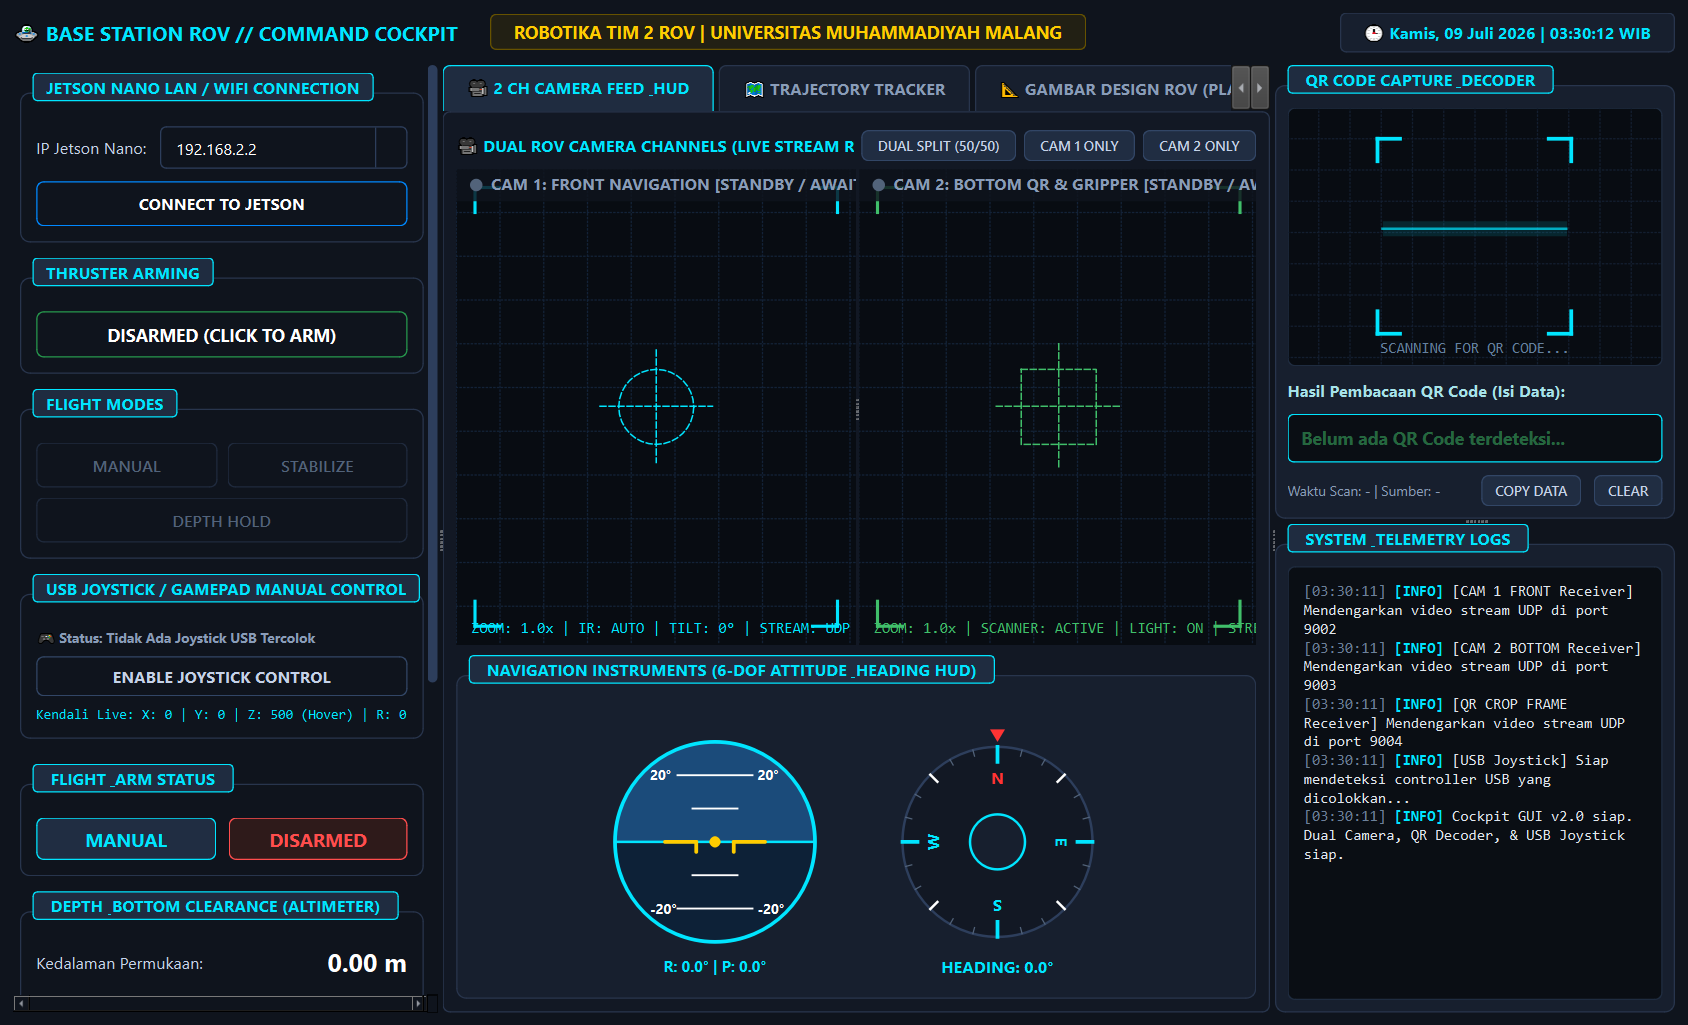
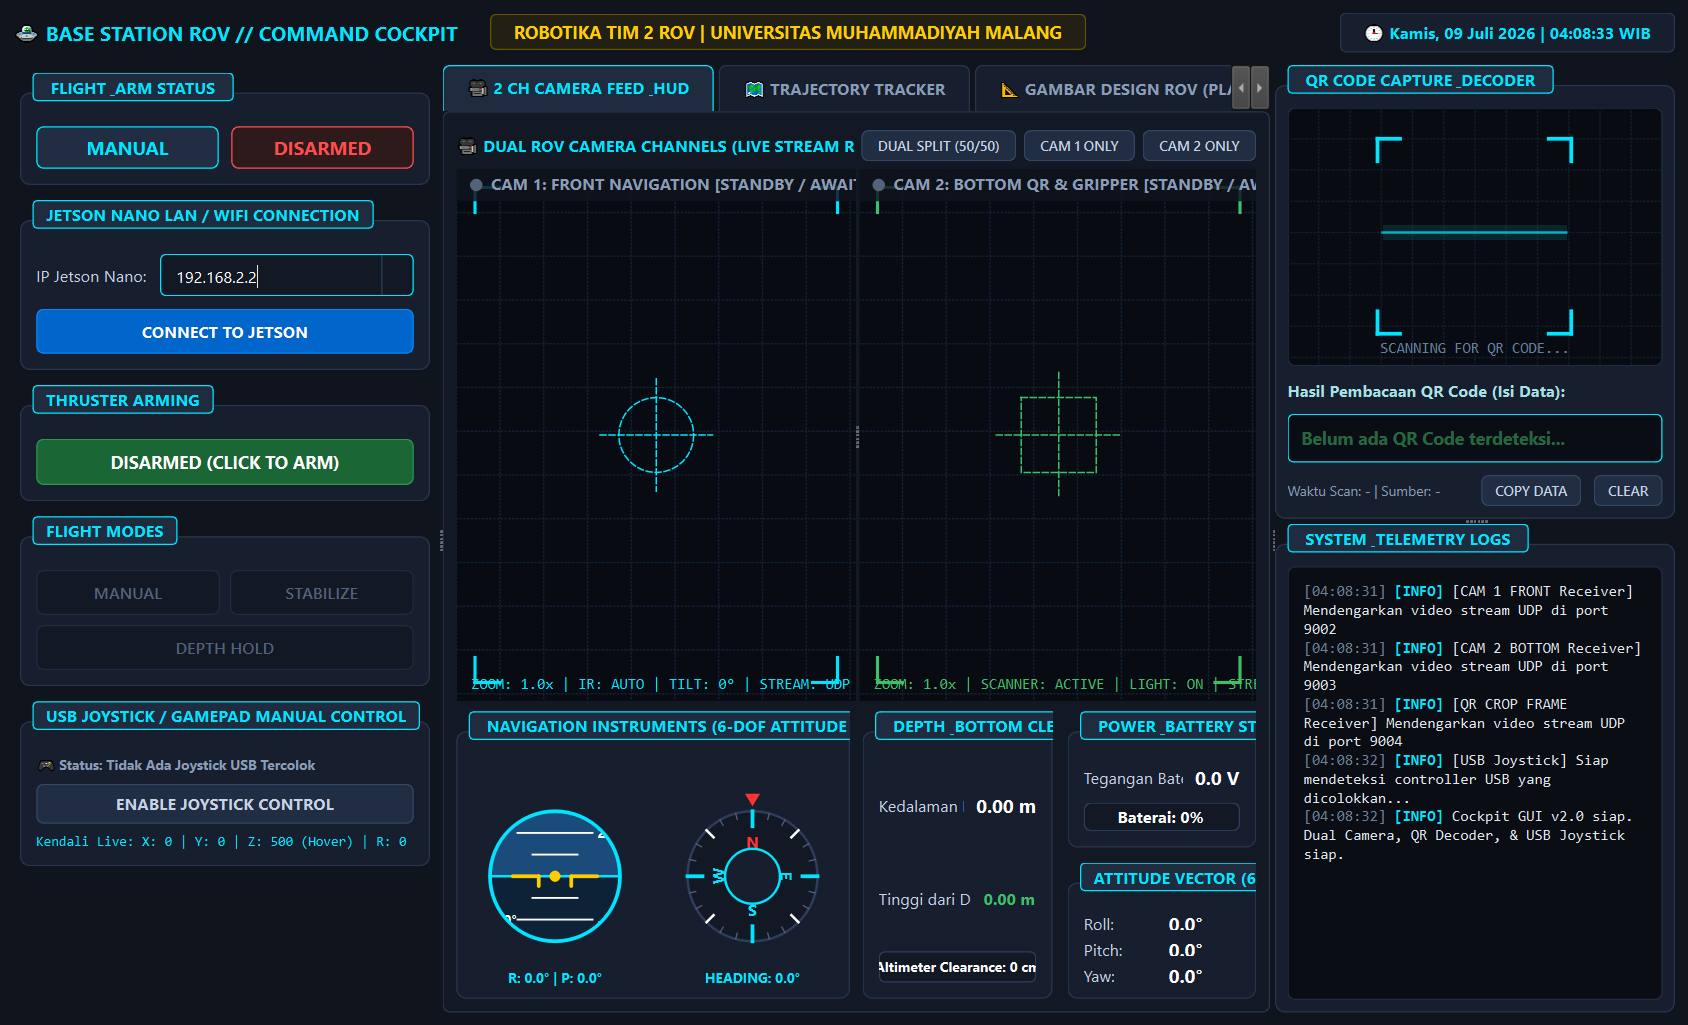
fix bottom panel

diff --git a/BaseSatation/widgets/telemetry_panel.py b/BaseSatation/widgets/telemetry_panel.py
@@ -14,30 +14,12 @@ class TelemetryPanel(QWidget):
         self._init_ui()
 
     def _init_ui(self):
-        main_layout = QVBoxLayout(self)
-        main_layout.setContentsMargins(6, 6, 6, 6)
+        main_layout = QHBoxLayout(self)
+        main_layout.setContentsMargins(0, 0, 0, 0)
         main_layout.setSpacing(12)
 
-        # 1. Groupbox Status Utama (Mode & Armed status)
-        status_group = QGroupBox("FLIGHT & ARM STATUS")
-        status_layout = QHBoxLayout(status_group)
-        status_layout.setContentsMargins(12, 18, 12, 12)
-        status_layout.setSpacing(10)
-
-        self.lbl_mode = QLabel("MANUAL")
-        self.lbl_mode.setAlignment(Qt.AlignCenter)
-        self.lbl_mode.setStyleSheet("background-color: #202d42; border: 1px solid #00e5ff; border-radius: 6px; font-size: 15px; font-weight: bold; padding: 6px; color: #00e5ff;")
-
-        self.lbl_armed = QLabel("DISARMED")
-        self.lbl_armed.setAlignment(Qt.AlignCenter)
-        self.lbl_armed.setStyleSheet("background-color: #2e1a1a; border: 1px solid #ff4d4d; border-radius: 6px; font-size: 15px; font-weight: bold; padding: 6px; color: #ff4d4d;")
-
-        status_layout.addWidget(self.lbl_mode)
-        status_layout.addWidget(self.lbl_armed)
-        main_layout.addWidget(status_group)
-
-        # 2. Groupbox Kedalaman & Ketinggian Dasar Kolam (Bottom Clearance)
-        depth_group = QGroupBox("DEPTH & BOTTOM CLEARANCE (ALTIMETER)")
+        # 1. Left column: depth_group
+        depth_group = QGroupBox("DEPTH & ALTIMETER")
         depth_layout = QVBoxLayout(depth_group)
         depth_layout.setContentsMargins(12, 18, 12, 12)
         depth_layout.setSpacing(10)
@@ -57,7 +39,7 @@ class TelemetryPanel(QWidget):
         row_alt.addStretch()
         self.lbl_alt_val = QLabel("0.00 m")
         self.lbl_alt_val.setObjectName("value_label")
-        self.lbl_alt_val.setStyleSheet("color: #40bf6a; font-weight: bold; font-size: 18px;")
+        self.lbl_alt_val.setStyleSheet("color: #40bf6a; font-weight: bold; font-size: 13px;")
         row_alt.addWidget(self.lbl_alt_val)
         depth_layout.addLayout(row_alt)
 
@@ -71,10 +53,14 @@ class TelemetryPanel(QWidget):
         """)
         depth_layout.addWidget(self.bar_alt)
 
-        main_layout.addWidget(depth_group)
+        main_layout.addWidget(depth_group, stretch=1)
 
-        # 3. Groupbox Baterai & Daya
-        power_group = QGroupBox("POWER & BATTERY STATUS")
+        # 2. Right column stacked: power_group & rpy_group
+        right_layout = QVBoxLayout()
+        right_layout.setContentsMargins(0, 0, 0, 0)
+        right_layout.setSpacing(12)
+
+        power_group = QGroupBox("BATTERY & POWER")
         power_layout = QVBoxLayout(power_group)
         power_layout.setContentsMargins(12, 18, 12, 12)
         power_layout.setSpacing(10)
@@ -93,10 +79,9 @@ class TelemetryPanel(QWidget):
         self.bar_battery.setFormat("Baterai: %p%")
         power_layout.addWidget(self.bar_battery)
 
-        main_layout.addWidget(power_group)
+        right_layout.addWidget(power_group)
 
-        # 4. Groupbox RPY Detail (Roll Pitch Yaw)
-        rpy_group = QGroupBox("ATTITUDE VECTOR (6-DOF)")
+        rpy_group = QGroupBox("ATTITUDE (6-DOF)")
         rpy_layout = QGridLayout(rpy_group)
         rpy_layout.setContentsMargins(12, 18, 12, 12)
         rpy_layout.setSpacing(10)
@@ -116,19 +101,11 @@ class TelemetryPanel(QWidget):
         self.lbl_yaw.setObjectName("value_label")
         rpy_layout.addWidget(self.lbl_yaw, 2, 1)
 
-        main_layout.addWidget(rpy_group)
+        right_layout.addWidget(rpy_group)
+        main_layout.addLayout(right_layout, stretch=1)
 
     def update_telemetry(self, state):
         """Memperbarui UI panel dengan data dari object ROVState."""
-        # Mode & Armed
-        self.lbl_mode.setText(str(state.mode).upper())
-        if state.armed:
-            self.lbl_armed.setText("ARMED")
-            self.lbl_armed.setStyleSheet("background-color: #1a2e1e; border: 1px solid #40bf6a; border-radius: 6px; font-size: 15px; font-weight: bold; padding: 6px; color: #40bf6a;")
-        else:
-            self.lbl_armed.setText("DISARMED")
-            self.lbl_armed.setStyleSheet("background-color: #2e1a1a; border: 1px solid #ff4d4d; border-radius: 6px; font-size: 15px; font-weight: bold; padding: 6px; color: #ff4d4d;")
-
         # Depth & Altitude (Dasar Kolam)
         self.lbl_depth_val.setText(f"{state.depth_m:.2f} m")
         self.lbl_alt_val.setText(f"{state.altitude_m:.2f} m")
@@ -137,13 +114,13 @@ class TelemetryPanel(QWidget):
         self.bar_alt.setValue(min(300, alt_cm))
         if 0 < state.altitude_m < 0.3:
             # Peringatan dekat dasar kolam
-            self.lbl_alt_val.setStyleSheet("color: #ff3b30; font-weight: bold; font-size: 18px;")
+            self.lbl_alt_val.setStyleSheet("color: #ff3b30; font-weight: bold; font-size: 13px;")
             self.bar_alt.setStyleSheet("""
                 QProgressBar { background-color: #2e1212; border: 1px solid #ff3b30; border-radius: 5px; text-align: center; color: #ffffff; font-size: 11px; }
                 QProgressBar::chunk { background-color: #ff3b30; border-radius: 4px; }
             """)
         else:
-            self.lbl_alt_val.setStyleSheet("color: #40bf6a; font-weight: bold; font-size: 18px;")
+            self.lbl_alt_val.setStyleSheet("color: #40bf6a; font-weight: bold; font-size: 13px;")
             self.bar_alt.setStyleSheet("""
                 QProgressBar { background-color: #121824; border: 1px solid #2d3e5c; border-radius: 5px; text-align: center; color: #ffffff; font-size: 11px; }
                 QProgressBar::chunk { background-color: #40bf6a; border-radius: 4px; }

diff --git a/BaseSatation/gui/main_window.py b/BaseSatation/gui/main_window.py
@@ -61,27 +61,19 @@ class MainWindow(QMainWindow):
         # === MAIN SPLITTER (LEFT / CENTER / RIGHT) ===
         main_splitter = QSplitter(Qt.Horizontal)
 
-        # 1. LEFT COLUMN: Kontrol & Telemetri (Termasuk Altimeter Dasar Kolam)
-        left_scroll = QScrollArea()
-        left_scroll.setWidgetResizable(True)
-        left_scroll.setFrameShape(QFrame.NoFrame)
-        left_scroll.setStyleSheet("background-color: transparent;")
-        
+        # 1. LEFT COLUMN: Kontrol & Status (Tanpa scroll area)
         left_widget = QWidget()
         left_layout = QVBoxLayout(left_widget)
         left_layout.setContentsMargins(0, 0, 0, 0)
-        left_layout.setSpacing(8)
+        left_layout.setSpacing(0)
         
         self.control_panel = ControlPanel()
-        self.telemetry_panel = TelemetryPanel()
-        
         left_layout.addWidget(self.control_panel)
-        left_layout.addWidget(self.telemetry_panel)
+        left_layout.addStretch()
         
-        left_scroll.setWidget(left_widget)
-        left_scroll.setMinimumWidth(340)
-        left_scroll.setMaximumWidth(420)
-        main_splitter.addWidget(left_scroll)
+        left_widget.setMinimumWidth(340)
+        left_widget.setMaximumWidth(420)
+        main_splitter.addWidget(left_widget)
 
         # 2. CENTER COLUMN: Multi-Tab Dashboard (Dual Camera, Trajectory Map, 3D Design)
         center_widget = QWidget()
@@ -91,7 +83,7 @@ class MainWindow(QMainWindow):
         self.center_tabs = QTabWidget()
         self.center_tabs.setTabPosition(QTabWidget.North)
 
-        # TAB 1: Dual Display Camera + HUD Instruments
+        # TAB 1: Dual Display Camera + HUD Instruments & Telemetry
         tab_cam_widget = QWidget()
         tab_cam_layout = QVBoxLayout(tab_cam_widget)
         tab_cam_layout.setContentsMargins(4, 8, 4, 4)
@@ -100,19 +92,36 @@ class MainWindow(QMainWindow):
         self.video_panel = VideoPanel()  # 2 Display Camera
         tab_cam_layout.addWidget(self.video_panel, stretch=3)
 
-        hud_group = QGroupBox("NAVIGATION INSTRUMENTS (6-DOF ATTITUDE & HEADING HUD)")
+        self.telemetry_panel = TelemetryPanel()
+
+        # HUD Group with constrained height
+        hud_group = QGroupBox("NAVIGATION HUD (6-DOF)")
         hud_layout = QHBoxLayout(hud_group)
+        hud_layout.setContentsMargins(8, 18, 8, 8)
+        hud_layout.setSpacing(20)
 
         self.attitude_indicator = AttitudeIndicator()
+        self.attitude_indicator.setMaximumSize(180, 180)
+
         self.compass_indicator = CompassIndicator()
+        self.compass_indicator.setMaximumSize(180, 180)
 
         hud_layout.addStretch()
         hud_layout.addWidget(self.attitude_indicator)
-        hud_layout.addSpacing(40)
         hud_layout.addWidget(self.compass_indicator)
         hud_layout.addStretch()
 
-        tab_cam_layout.addWidget(hud_group, stretch=2)
+        # Bottom dashboard as a widget with fixed max height
+        bottom_dashboard_widget = QWidget()
+        bottom_dashboard_widget.setMaximumHeight(230)
+        bottom_dashboard_layout = QHBoxLayout(bottom_dashboard_widget)
+        bottom_dashboard_layout.setContentsMargins(0, 0, 0, 0)
+        bottom_dashboard_layout.setSpacing(10)
+
+        bottom_dashboard_layout.addWidget(hud_group, stretch=2)
+        bottom_dashboard_layout.addWidget(self.telemetry_panel, stretch=5)
+
+        tab_cam_layout.addWidget(bottom_dashboard_widget)
         self.center_tabs.addTab(tab_cam_widget, "🎥 2 CH CAMERA FEED & HUD")
 
         # TAB 2: Trajectory Tracker
@@ -211,7 +220,7 @@ class MainWindow(QMainWindow):
     def _on_state_updated(self, state):
         # Update Telemetri & Altimeter Dasar Kolam
         self.telemetry_panel.update_telemetry(state)
-        self.control_panel.set_armed_state(state.armed)
+        self.control_panel.update_status(state.mode, state.armed)
 
         # Update HUD Instruments (Roll, Pitch, Yaw)
         self.attitude_indicator.set_attitude(state.roll, state.pitch)

diff --git a/BaseSatation/widgets/control_panel.py b/BaseSatation/widgets/control_panel.py
@@ -24,6 +24,24 @@ class ControlPanel(QWidget):
         main_layout.setContentsMargins(6, 6, 6, 6)
         main_layout.setSpacing(12)
 
+        # 0. Groupbox Status Utama (Mode & Armed status)
+        status_group = QGroupBox("FLIGHT & ARM STATUS")
+        status_layout = QHBoxLayout(status_group)
+        status_layout.setContentsMargins(12, 18, 12, 12)
+        status_layout.setSpacing(10)
+
+        self.lbl_mode = QLabel("MANUAL")
+        self.lbl_mode.setAlignment(Qt.AlignCenter)
+        self.lbl_mode.setStyleSheet("background-color: #202d42; border: 1px solid #00e5ff; border-radius: 6px; font-size: 15px; font-weight: bold; padding: 6px; color: #00e5ff;")
+
+        self.lbl_armed = QLabel("DISARMED")
+        self.lbl_armed.setAlignment(Qt.AlignCenter)
+        self.lbl_armed.setStyleSheet("background-color: #2e1a1a; border: 1px solid #ff4d4d; border-radius: 6px; font-size: 15px; font-weight: bold; padding: 6px; color: #ff4d4d;")
+
+        status_layout.addWidget(self.lbl_mode)
+        status_layout.addWidget(self.lbl_armed)
+        main_layout.addWidget(status_group)
+
         # 1. Groupbox Koneksi LAN/WiFi Jetson Nano
         conn_group = QGroupBox("JETSON NANO LAN / WIFI CONNECTION")
         conn_layout = QVBoxLayout(conn_group)
@@ -169,5 +187,13 @@ class ControlPanel(QWidget):
         self.btn_arm.setChecked(armed)
         if armed:
             self.btn_arm.setText("⚡ ARMED (THRUSTERS LIVE) ⚡")
+            self.lbl_armed.setText("ARMED")
+            self.lbl_armed.setStyleSheet("background-color: #1a2e1e; border: 1px solid #40bf6a; border-radius: 6px; font-size: 15px; font-weight: bold; padding: 6px; color: #40bf6a;")
         else:
             self.btn_arm.setText("DISARMED (CLICK TO ARM)")
+            self.lbl_armed.setText("DISARMED")
+            self.lbl_armed.setStyleSheet("background-color: #2e1a1a; border: 1px solid #ff4d4d; border-radius: 6px; font-size: 15px; font-weight: bold; padding: 6px; color: #ff4d4d;")
+
+    def update_status(self, mode: str, armed: bool):
+        self.lbl_mode.setText(str(mode).upper())
+        self.set_armed_state(armed)

diff --git a/BaseSatation/widgets/attitude_indicator.py b/BaseSatation/widgets/attitude_indicator.py
@@ -12,7 +12,7 @@ class AttitudeIndicator(QWidget):
         super().__init__(parent)
         self._roll = 0.0
         self._pitch = 0.0
-        self.setMinimumSize(180, 180)
+        self.setMinimumSize(140, 140)
 
     def set_attitude(self, roll: float, pitch: float):
         self._roll = roll
@@ -29,7 +29,7 @@ class AttitudeIndicator(QWidget):
         height = self.height()
         center_x = width / 2.0
         center_y = height / 2.0
-        radius = min(width, height) / 2.0 - 10
+        radius = min(width, height) / 2.0 - 18
 
         # 1. Horizon & Pitch Ladder
         painter.save()
@@ -78,12 +78,16 @@ class AttitudeIndicator(QWidget):
         painter.setBrush(Qt.NoBrush)
         painter.drawEllipse(QPointF(0, 0), radius, radius)
 
+        w1 = radius * 0.65
+        w2 = radius * 0.25
+        h_val = radius * 0.15
+
         symbol_pen = QPen(QColor("#ffcc00"), 3, Qt.SolidLine, Qt.RoundCap, Qt.RoundJoin)
         painter.setPen(symbol_pen)
-        painter.drawLine(QPointF(-40, 0), QPointF(-15, 0))
-        painter.drawLine(QPointF(-15, 0), QPointF(-15, 8))
-        painter.drawLine(QPointF(15, 0), QPointF(40, 0))
-        painter.drawLine(QPointF(15, 0), QPointF(15, 8))
+        painter.drawLine(QPointF(-w1, 0), QPointF(-w2, 0))
+        painter.drawLine(QPointF(-w2, 0), QPointF(-w2, h_val))
+        painter.drawLine(QPointF(w2, 0), QPointF(w1, 0))
+        painter.drawLine(QPointF(w2, 0), QPointF(w2, h_val))
         painter.setBrush(QBrush(QColor("#ffcc00")))
         painter.drawEllipse(QPointF(0, 0), 3, 3)
 
@@ -91,5 +95,5 @@ class AttitudeIndicator(QWidget):
 
         # 3. Label info Roll & Pitch
         painter.setPen(QColor("#00e5ff"))
-        painter.setFont(QFont("Segoe UI", 9, QFont.Bold))
-        painter.drawText(QRectF(0, height - 26, width, 20), Qt.AlignCenter, f"R: {self._roll:.1f}° | P: {self._pitch:.1f}°")
+        painter.setFont(QFont("Segoe UI", 8, QFont.Bold))
+        painter.drawText(QRectF(0, height - 16, width, 15), Qt.AlignCenter, f"R: {self._roll:.1f}° | P: {self._pitch:.1f}°")

diff --git a/BaseSatation/widgets/compass_indicator.py b/BaseSatation/widgets/compass_indicator.py
@@ -11,7 +11,7 @@ class CompassIndicator(QWidget):
     def __init__(self, parent=None):
         super().__init__(parent)
         self._yaw = 0.0  # Derajat (0 s/d 360)
-        self.setMinimumSize(180, 180)
+        self.setMinimumSize(140, 140)
 
     def set_yaw(self, yaw: float):
         # Normalisasi ke 0 - 360
@@ -28,7 +28,7 @@ class CompassIndicator(QWidget):
         height = self.height()
         center_x = width / 2.0
         center_y = height / 2.0
-        radius = min(width, height) / 2.0 - 14
+        radius = min(width, height) / 2.0 - 18
 
         painter.save()
         painter.translate(center_x, center_y)
@@ -87,5 +87,5 @@ class CompassIndicator(QWidget):
 
         # Label Teks Derajat Heading
         painter.setPen(QColor("#00e5ff"))
-        painter.setFont(QFont("Segoe UI", 10, QFont.Bold))
-        painter.drawText(QRectF(0, height - 26, width, 20), Qt.AlignCenter, f"HEADING: {self._yaw:.1f}°")
+        painter.setFont(QFont("Segoe UI", 8, QFont.Bold))
+        painter.drawText(QRectF(0, height - 16, width, 15), Qt.AlignCenter, f"HEADING: {self._yaw:.1f}°")

diff --git a/BaseSatation/styles/qss.py b/BaseSatation/styles/qss.py
@@ -181,7 +181,7 @@ QLabel#header_team {
     border-radius: 5px;
 }
 QLabel#value_label {
-    font-size: 20px;
+    font-size: 15px;
     font-weight: bold;
     color: #ffffff;
 }
